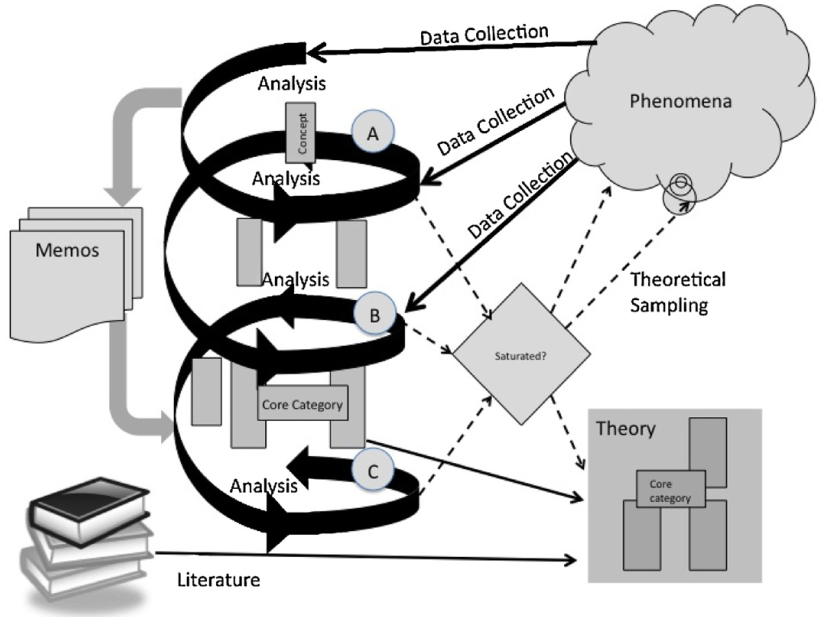
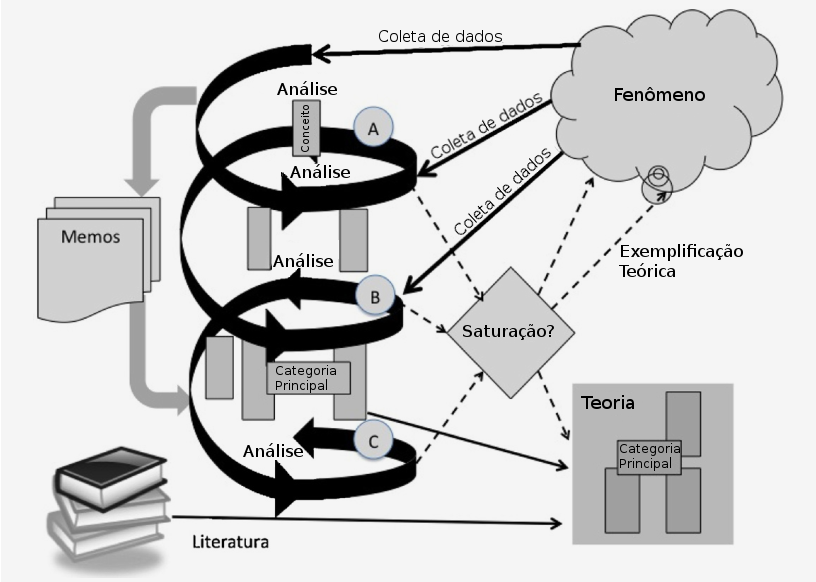
avançando

Changed region(s): [[0.0, 0.0, 1.0, 1.0], [0.7353, 0.1546, 0.8885, 0.1856]]

diff --git a/dissertacao/tex/2_Fundamentacao_Teorica.tex b/dissertacao/tex/2_Fundamentacao_Teorica.tex
@@ -17,7 +17,37 @@ Este capítulo apresenta uma revisão dos principais trabalhos relacionados a
 \section{O que é \textit{DevOps}?}
 
 \textit{DevOps} emergiu na indústria de desenvolvimento de software sem uma
-clara definição. Todavia, estudos recentes propõem definições
+clara definição.
+
+Em \textit{What is DevOps?}, Loukides tenta ilustrar o conceito de
+\textit{DevOps} por meio da diferenciação entre o passado e o presente do
+trabalho de operações de \acrshort{TI}. O texto ilustra os novos desafios
+existentes para os times de operações e destaca a importância da existência
+de colaboração com os times de desenvolvimento para superá-los. Todavia,
+não é apresentada uma definição final de \textit{DevOps}.
+
+H\"uttermann \cite{devops_for_developers} salienta a dificuldade que é definir
+\textit{DevOps} e ressalta que o termo é multifacetado. O autor afirma que
+``\textit{DevOps} descreve práticas que simplificam o processo de entrega
+de software, enfatizando o aprendizado por meio da transmissão contínua de
+\textit{feedback} da produção para o desenvolvimento''. Essa definição de
+\textit{DevOps} como um conjunto de práticas relacionadas à entrega de
+\textit{software} quando comparada com outras definições, demonstra carecer
+de uma maior ênfase no aspecto cultural. Por exemplo, de acordo com
+Walls \cite{building_devops_culture}, o termo foi introduzido justamente para
+definir uma cultura organizacional que as organizações podem buscar. De acordo
+com ele, \textit{DevOps} é ``um movimento cultural combinado com várias
+práticas relacionadas a \textit{software} que possibilitam um desenvolvimento
+rápido''. O autor descreve quatro características culturais chave em um
+contexto de \textit{DevOps}: comunicação aberta, incentivo e alinhamento de
+responsabilidades, respeito e confiança.
+
+
+
+
+
+
+Todavia, estudos recentes propõem definições
 dentre as quais desataca-se a de França et al. \cite{characterizing_devops}
 que definem \textit{DevOps} como um neologismo que representa um movimento de
 profissionais de tecnologia da informação e comunicação buscando uma
@@ -35,7 +65,7 @@ de práticas, tais como cultura, automação, medição e compartilhamento.
 \section{\textit{Grounded Theory}}
 Since the publication of the original version of GT [12], several
 modifications and variations have been proposed to the method,
-coming to exist at least seven different versions of Grounded Theory [10]. 
+coming to exist at least seven different versions of Grounded Theory [10].
 
 %%%%%%%%%%%%%%%%%%%%%%%%%%%%%%%%%%%%%%%%%%%%%%%%%%%%%%%%%%%%%%%%%%%%%%%%%%%%%%%%
 %%%%%%%%%%%%%%%%%%%%%%%%%%%%%%%%%%%%%%%%%%%%%%%%%%%%%%%%%%%%%%%%%%%%%%%%%%%%%%%%

diff --git a/dissertacao/tex/3_GT_Adocao_DevOps.tex b/dissertacao/tex/3_GT_Adocao_DevOps.tex
@@ -55,12 +55,13 @@ segundo Stol et al. \cite{}, qualquer estudo utilizando \acrshort{GT} deve
 especificar qual versão foi utilizada.
 
 A variação clássica foi utilizada aqui, principalmente pela inexistência de
-questões de pesquisa no início, exatamente como sugerido nessa versão. O início
-da pesquisa estava acorado em investigar uma área de interesse: a adoção bem
-sucedida de \textit{DevOps} na indústria. Adicionalmente, os trabalhos de
-pesquisa atualmente existentes na área de engenharia de \textit{software} usam
-predominantemente a versão clássica \cite{} e, portanto, existe um maior
-referencial que pode ser utilizado como base em um novo estudo.
+questões de pesquisa no início da pesquisa, exatamente como sugerido nessa
+versão. O início da pesquisa estava ancorado em investigar uma área de
+interesse: a adoção bem sucedida de \textit{DevOps} na indústria.
+Adicionalmente, os trabalhos de pesquisa atualmente existentes na área
+de engenharia de \textit{software} usam predominantemente a versão clássica
+\cite{} e, portanto, existe um maior referencial que pode ser utilizado
+como base em um novo estudo.
 
 A figura \ref{abordagem_gt}, proposta por Adolph et al. \cite{using_gt_adolph},
 ilustra como o método foi aplicado aqui.

diff --git a/dissertacao/tex/1_Introducao.tex b/dissertacao/tex/1_Introducao.tex
@@ -230,10 +230,13 @@ do desenvolvimento de uma aplicação corporativa do \acrshort{TCU}.
 \end{itemize}
 
 \section{Resultados Esperados}
+O resultado esperado para essa pesquisa é a construção e implantação no
+\acrshort{TCU} de um modelo para adoção de \textit{DevOps} com base em
+experiências bem sucedidas coletadas empiricamente da prática na indústria.
 
 \section{Estrutura do Trabalho}
-
 %\section{Normas CIC}
+
 % \href{http://monografias.cic.unb.br/dspace/normasGerais.pdf}{Política de Publicação de Monografias e Dissertações no Repositório Digital do CIC}%
 % \href{http://monografias.cic.unb.br/dspace/}{Repositório do Departamento de Ciência da Computação da UnB}
 
